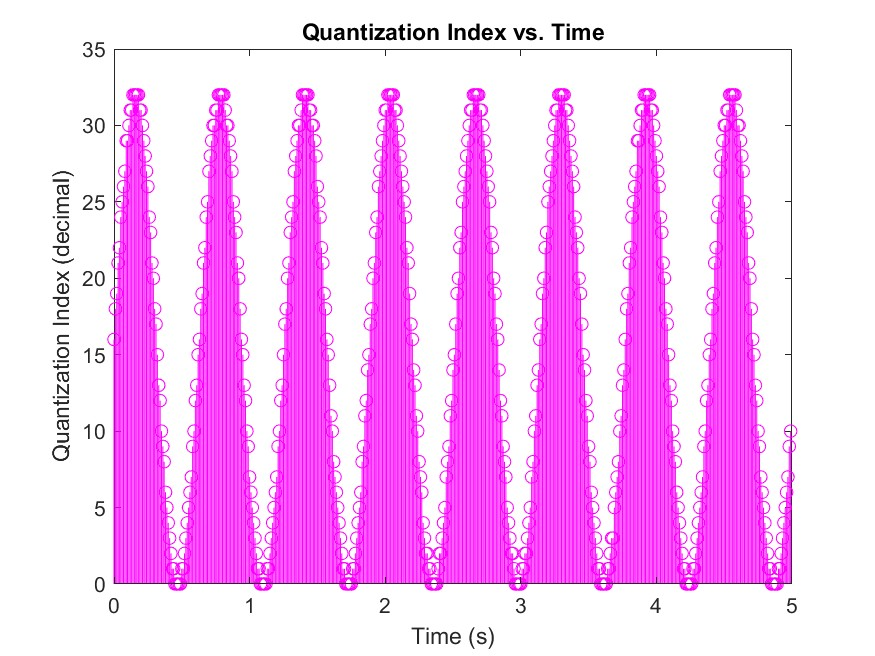
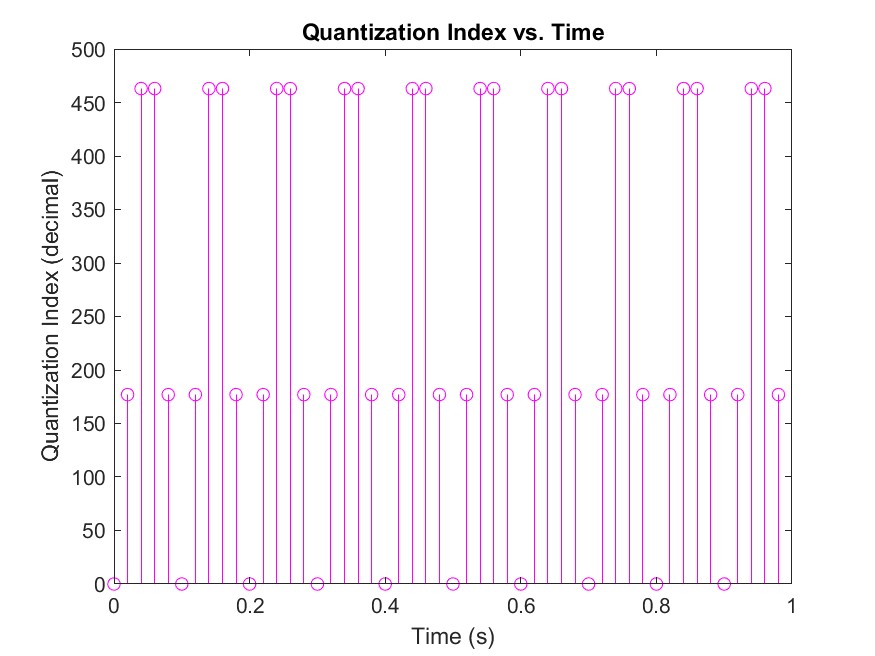
Add files via upload

diff --git a/ADC_uniform_quantization.m b/ADC_uniform_quantization.m
@@ -1,30 +1,32 @@
-% Jack Langille Dalhousie Univ. Dept. of Engineering Mathematics 2023
+% Jack Langille 2023
 % This codes simulates an analog to digital convertor that takes an input
 % signal 'y' and converts it to a binary encoded digital signal using basic
 % uniform quantization. Control parameters include sampling frequency 'fs',
 % converter bit count 'n', input voltage range 'Vmin' and 'Vmax' 
 
 clc; clear all;
+Tmax = 1; % Seconds
 
 % Signal Parameters
 Vmin = 0; % Volts
-Vmax = 5; % Volts
+Vmax = 10; % Volts
 f = 10; % Input frequency (Hz)
+x = linspace(0,Tmax,10000);
+s = Vmax+Vmax*sin(2*pi*f*x-(pi/2));
 
 % Converter Parameters
-n = 4; % Converter bit count
+n = 8; % Converter bit count
 r = 2^n; % Converter resolution
-fs = 100; % Sampling frequency (Hz)
+fs = 50; % Sampling frequency (Hz)
 
 % Simulation/Misc
-Tmax = 5; % Seconds
 Ts = 1/fs; % Sampling time (s)
 D = abs(Vmax-Vmin)/r; % Converter quantization size
 num_rows = Tmax/Ts; 
 
 % Step 1: Sampling
 t = 0:Ts:Tmax-Ts; 
-y = Vmax+Vmax*sin(f*t);
+y = Vmax+Vmax*sin(2*pi*f*t-(pi/2));
 
 % Step 2: Quantization
 k = round((y-Vmin)/D);
@@ -52,7 +54,7 @@ ylabel('Volts (V)')
 title('Quantized Signal')
 
 subplot(3,1,2)
-plot(t,y,'k--')
+plot(x,s,'k--')
 xlabel('Time (s)')
 ylabel('Volts (V)')
 title('Original Signal')
@@ -65,7 +67,6 @@ ylabel('Quantization Error (V)')
 title('Quantization Error')
 saveas(gcf,'signals_error.jpg')
 
-
 % Plot the encoded signal
 figure(3)
 set(gcf,'color','w');
@@ -77,6 +78,6 @@ saveas(gcf,'encoded_signal.jpg')
 
 % Create table of data
 data = table(t', y', k', encoded);
-data.Properties.VariableNames = ["Time (s)","Input Voltage (V)","Quantization Index","Digital Signal"]
+data.Properties.VariableNames = ["Time (s)","Input Voltage (V)","Quantization Index","Digital Signal"];
 % Display table
 disp(data);
